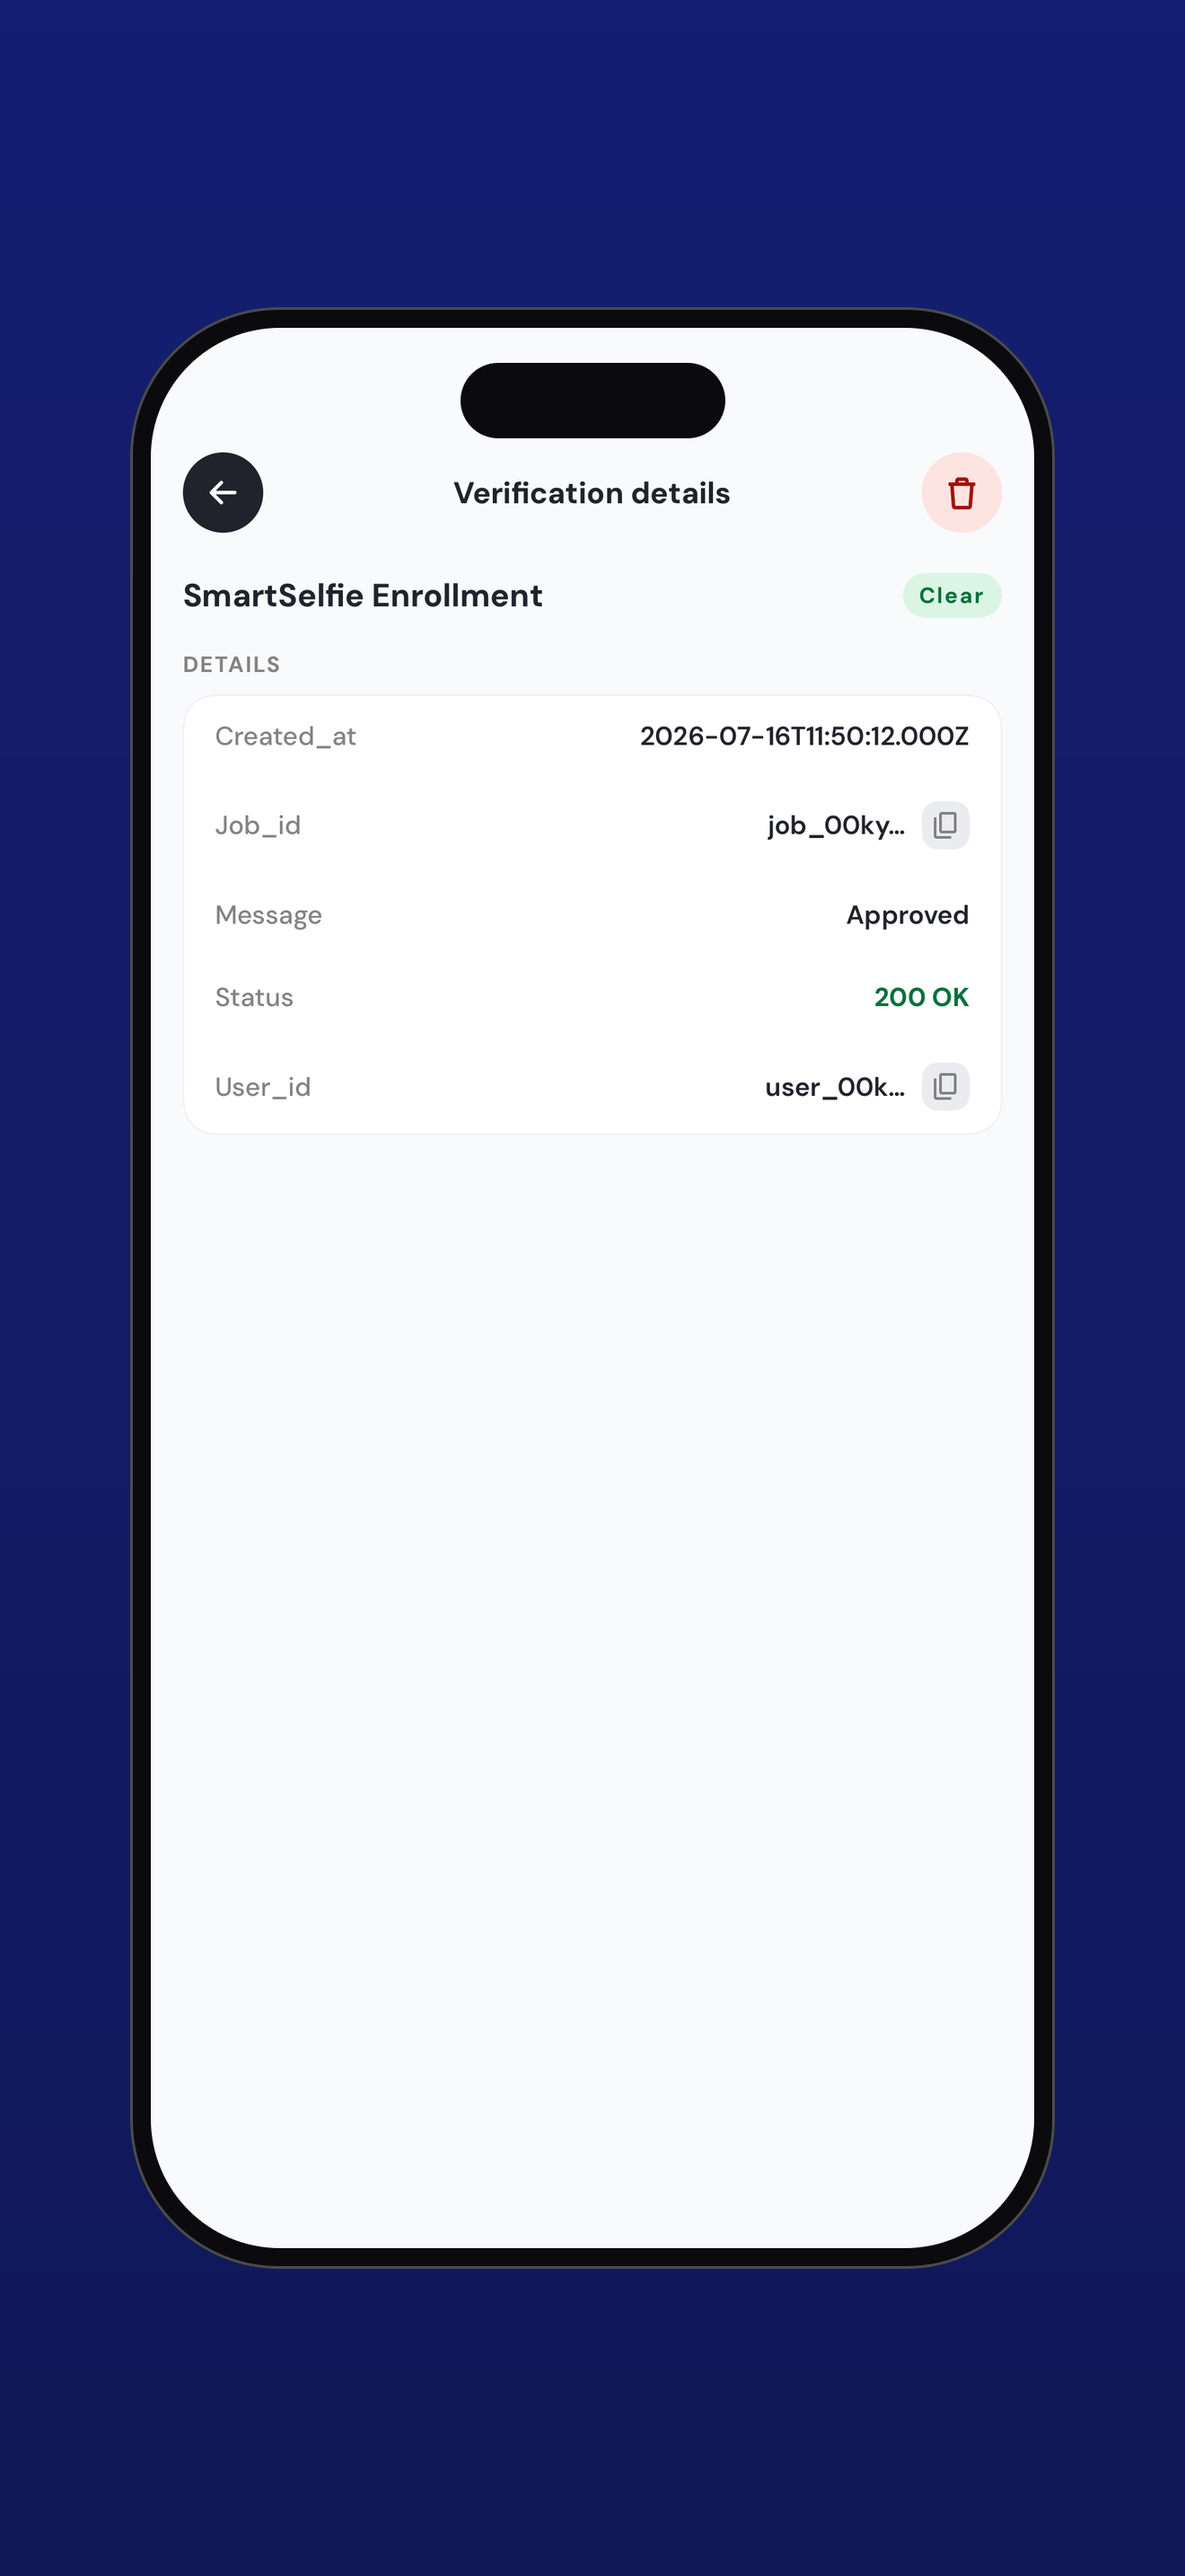
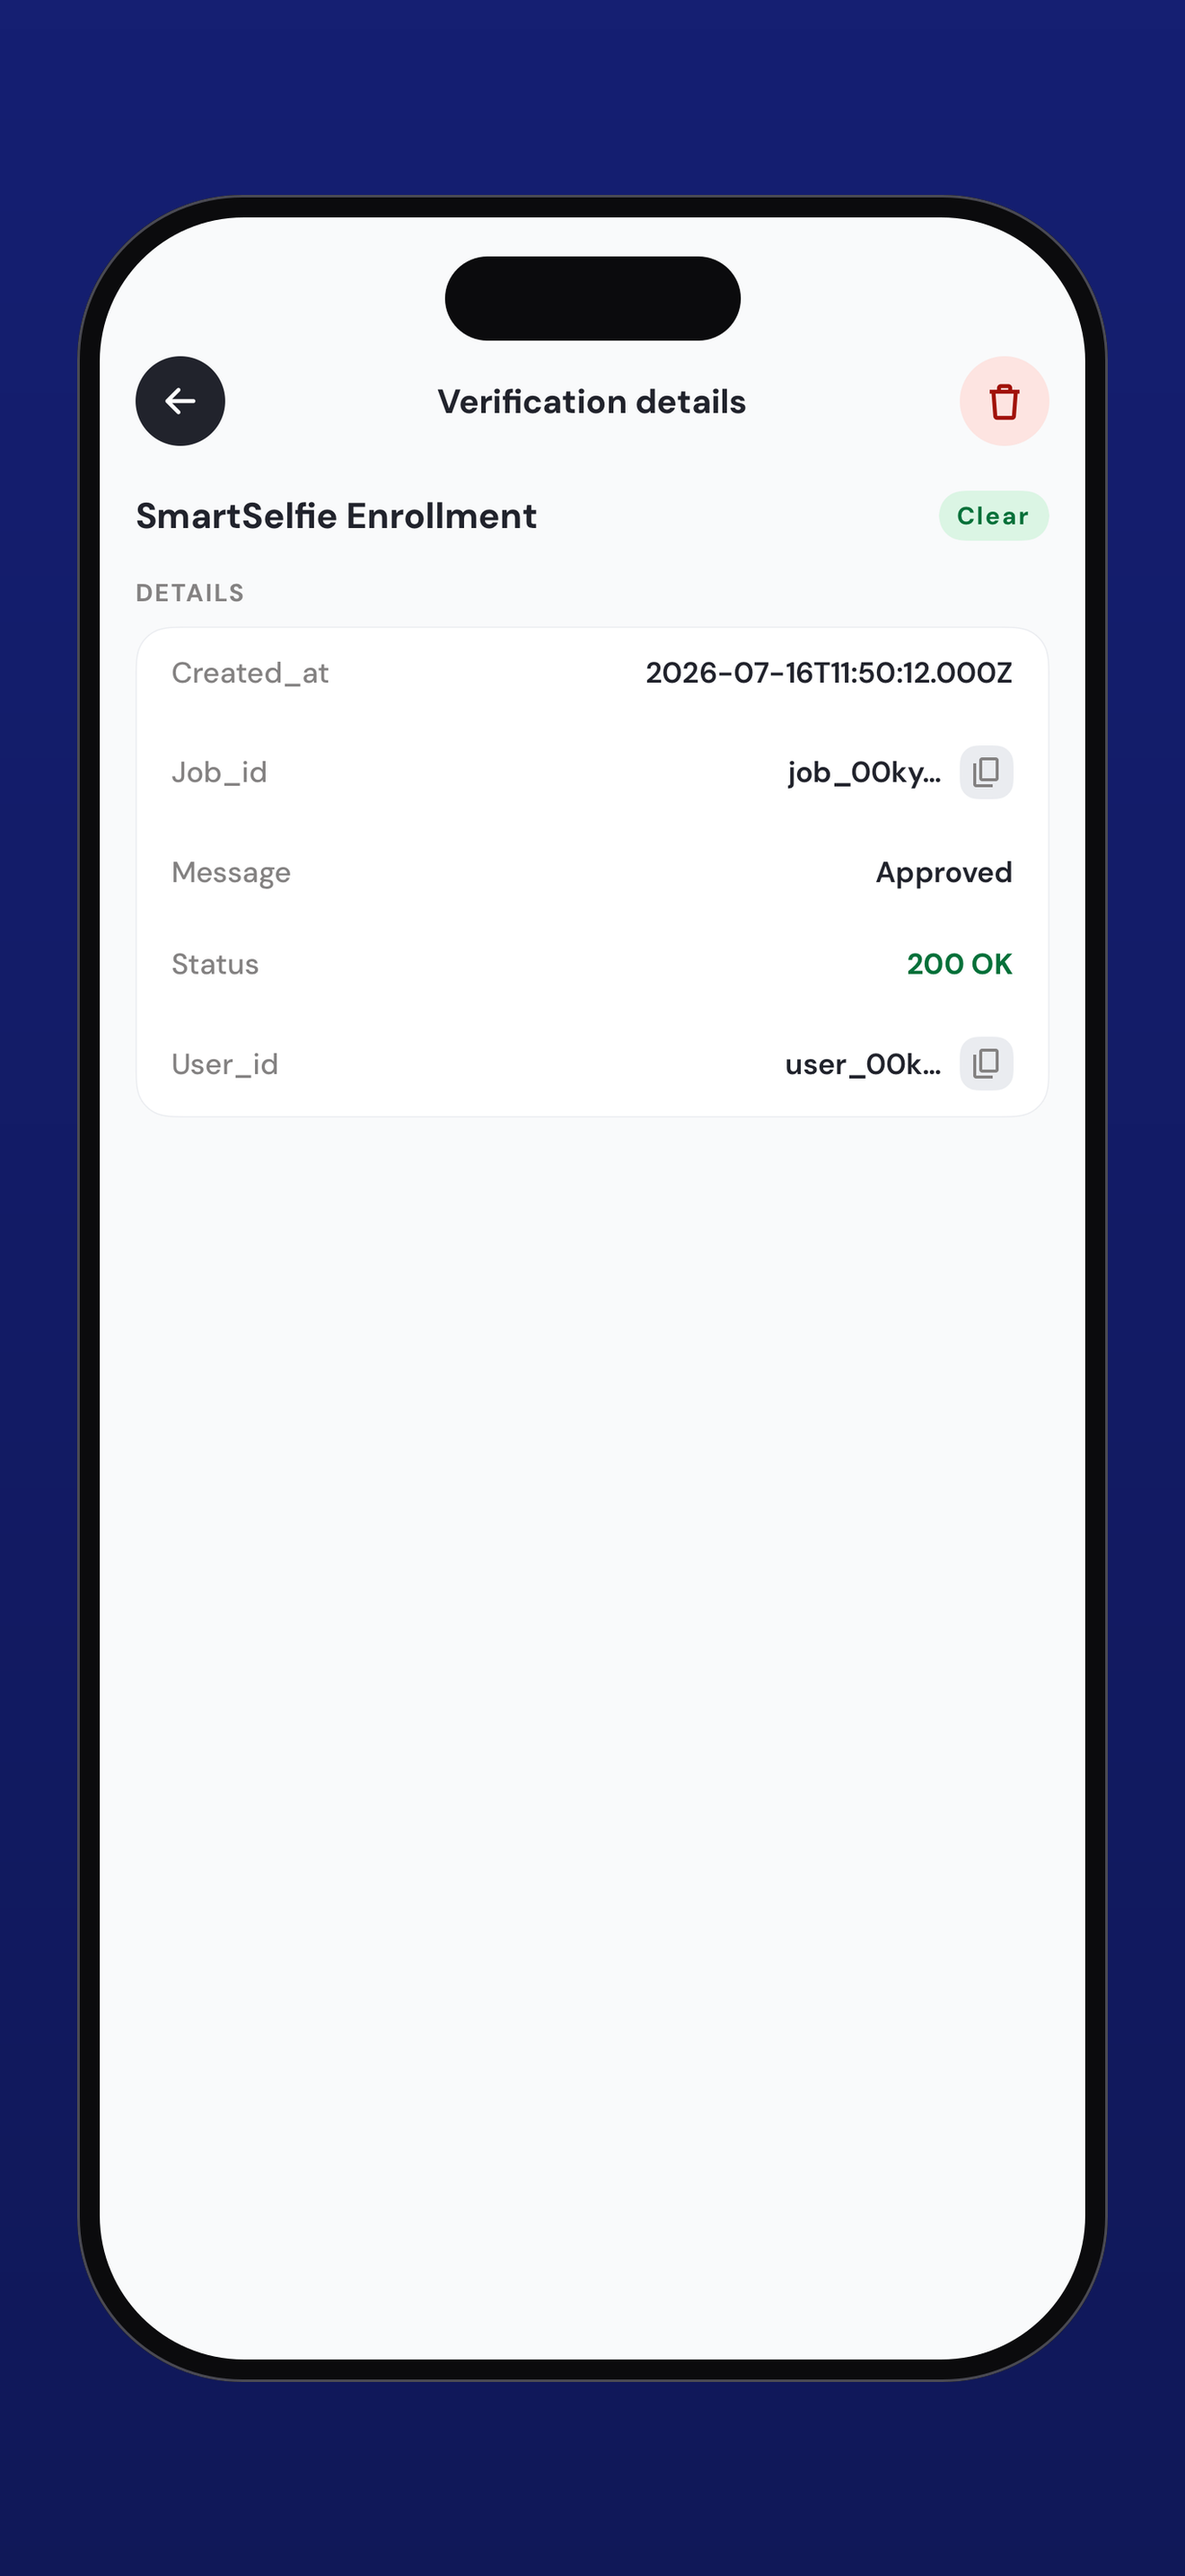
fix: size the store-panel device to fill the wordless panel and keep the capture's aspect

Changed region(s): [[0.0621, 0.0621, 0.9318, 0.931]]

diff --git a/docs/plan/app-store-release-ios.md b/docs/plan/app-store-release-ios.md
@@ -172,7 +172,10 @@ over all five.
 - **One layout variant for the whole set.** Every panel is `text-top`, so the device sits at the same
   height throughout. Variety comes from the headlines and the screens. *Since 2026-09-14 there is no
   headline: the panels are the screen alone, whole device centred, on both platforms — see the Android
-  plan's §2.6 for the ruling and `scripts/compose-store-panel.mjs` for how.*
+  plan's §2.6 for the ruling and `scripts/compose-store-panel.mjs` for how. Since 2026-09-18 the device
+  fills the panel: up to 90% of its width, or as tall as a 3% margin allows, and the screen keeps the
+  capture's own aspect. storeshots' 78% was sized to sit under a headline, and with none a phone at
+  three-quarters of the panel's height floated in the middle of it.*
 - **No headline states a count**, and the nouns come from `docs-v3` — *verification result*, and its
   *status* and *message*, which are also the words on the app's own status pills. *The rule now
   governs the listing copy, the panels having no words.*
